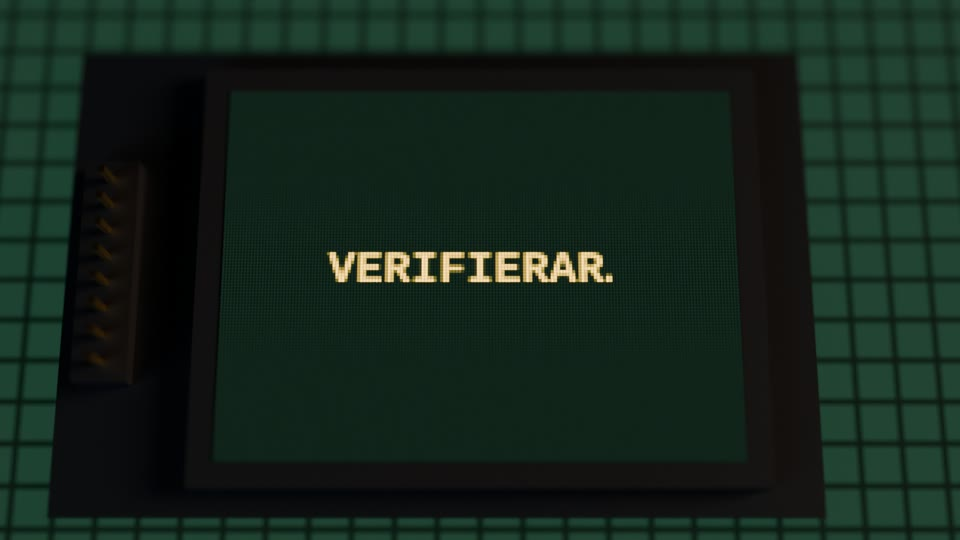
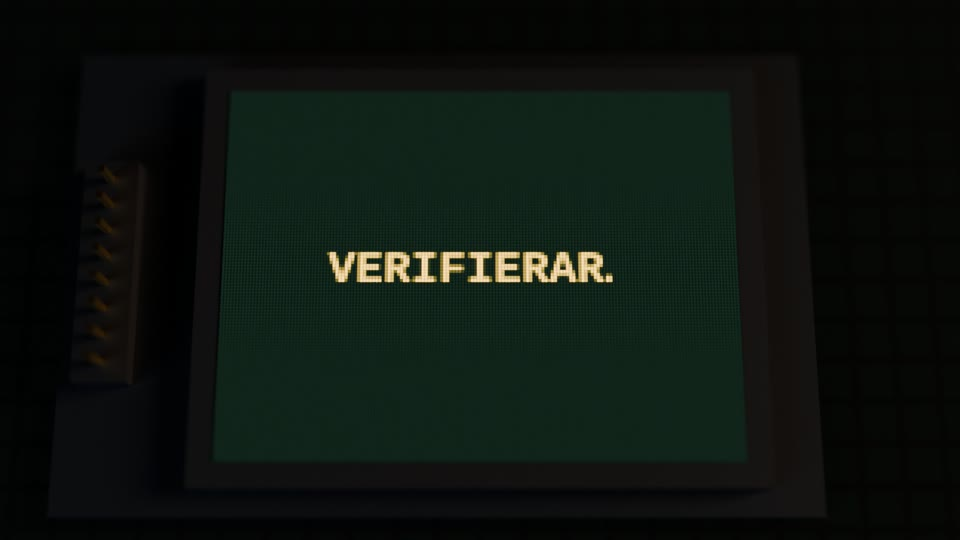
Film: glitch i LED-skärmen och golvet tonar ut till släckt
När kameran sjunker mot LED-skärmen tonar golvets pixlar ut tills
skärmen är det enda som lyser. Skärmen byter till VERIFIERAR med en
glitch i sju rutor, byggd ur skärmens egna bilder (verktyg/skarm_glitch.py),
med ett lågt digitalt knaster från Kenney.

diff --git a/trailer/storyboard/storyboard.html b/trailer/storyboard/storyboard.html
@@ -134,7 +134,7 @@ td:first-child { color: var(--fg); white-space: nowrap; font-family: var(--mono)
 <div class="wrap">
 
 <header class="top">
-  <div class="eyebrow">Storyboard v27 · En tagning ner i LED-skärmen</div>
+  <div class="eyebrow">Storyboard v28 · Glitchen och det släckta golvet</div>
   <h1>Projekt <span>Lennart</span></h1>
   <p class="lead">En helt orimlig mängd teknik, redovisad med fullt allvar, för att en ekorre ska få äta sin nöt i fred.</p>
   <div class="facts">
@@ -387,8 +387,8 @@ const ACTS = [
   ['0.1','0:00','5 s','Skärmen','o1','cg','Börja lugnt och seriöst. Väcka en fråga innan något har förklarats.','En liten skärm i en vit ram på röd träpanel: VÄNTAR PÅ BESÖKARE…','85 mm. Börjar snett från sidan, lätt lutad, och sveper i en båge runt fasaden medan den rätar upp sig.','Varmt släpljus från höger, svag kall fyllning.','Kameran rör sig, skärmen står still.','Samma båge fortsätter uppåt längs fasaden tills gluggen ligger där skärmen låg.','"Okej, så det här är ett helt vanligt autonomt säkerhetssystem,"','Svagt elektriskt brum. Dämpat fågelkvitter.','3D från GLB + skarm-vantar.png'],
   ['0.2','0:05','2,6 s','Gluggen och linsen','o2','cg','Systemets öga.','Den runda gluggen i gaveln, med kameramodulen där inne.','Kameran åker rakt in mot linsen tills det mörka glaset fyller bilden.','En liten kall reflex i glaset.','Inåkning som accelererar.','Klipp i mörkret till mekaniken. 0.3 börjar med doseringshjulets cirkel stor mitt i bild, där gluggen var.','"med artspecifik åtkomstkontroll,"','Ett lågt klick, som en slutare.','3D från GLB'],
   ['0.3','0:08','2,6 s','Nötens väg','o3','cg','Visa mekaniken som ett urverk, utan att visa huset.','Mekaniken i full färg: magasinet med nötter, hjulet, rännan, luckan och skålen. Resten av huset är mörkt glas där bara kanterna skymtar, och huset står på samma släckta LED-golv som i 0.4. Luckan fälls upp, hjulet vrider fram en hasselnöt och den rullar ner i skålen.','Låst vid hjulet: kameran rullar med doseringshjulet, så att hjulet och nöten står still medan magasinet och glashuset snurrar runt dem. När nöten släpper rätar bilden upp sig och följer nöten ner i skålen.','Varm nyckel på mekaniken. Glaset och bakgrunden i samma gröna som skärmen och golvet.','Luckan öppnas först, sedan vrids hjulet 130° och nöten rullar.','Osynligt klipp: kameran tiltar ner mot golvet tills bara pixlarna syns och börjar stiga. 0.4 tar vid i exakt samma läge, så att det känns som en enda kameraåkning.','"motoriserad precisionsdosering"','Servosurr. Nöten som rullar och landar.','3D från GLB. Ny version, v6 (variant H, låst vid hjulet).'],
-  ['0.4','0:10','4,3 s','Fyrtioåtta delar','o4','cg','Storleken på vansinnet, utan att avslöja formen.','Alla fyrtioåtta delar ligger platt i ett rutnät, sju gånger sju, en sak per ruta. I mittenrutan ligger LED-skärmen. Golvet är en enorm släckt LED-skärm med samma mörkgröna pixlar som skärmen i huset. Husets stomme ligger på rygg som en del bland de andra. Man ser mängden men kan inte pussla ihop huset.','Tar vid exakt där 0.3 slutade, tätt över golvets pixlar i hörnet intill mittenrutan, stiger rakt upp och fortsätter vrida sig tills hela rutnätet syns med LED-skärmen i mitten.','Varmt sidoljus, kall fyllning. Golvets pixlar glöder svagt. När skärmen vaknar tänds golvets pixlar runt den i ett mjukt grönt sken.','En enda jämn åkning. Delarna ligger still.','Inget klipp: kameran sjunker mot LED-skärmen och bromsar in strax ovanför den, där 0.5 tar vid i samma tagning.','"och fyrtioåtta väldigt noggrant tillverkade komponenter. Inget konstigt."','En låg ton växer.','3D från GLB + delar.json. Ny version, v7 (variant D).'],
-  ['0.5','0:15','3 s','Verifierar','o5','cg','Pausen.','LED-skärmen mitt i rutnätet, snett ovanifrån. Texten byts från VÄNTAR PÅ BESÖKARE… till VERIFIERAR… Huset syns inte.','Svävar lutad över skärmen och driver långsamt närmare.','Golvets pixlar glöder svagt runt skärmen. Skärmen är det ljusaste i bilden.','Nästan stilla.','Kameran åker in i texten tills skärmens pixlar fyller bilden, och skärmen släcks. Titeln tänds i samma pixelrutnät.','Tystnad, två sekunder.','Tre korta pip. Tvärt tyst.','3D: samma tagning som 0.4, LED-skärmen ur elektronik.blend + skarm-verifierar.png. Ny version, v5.'],
+  ['0.4','0:10','4,3 s','Fyrtioåtta delar','o4','cg','Storleken på vansinnet, utan att avslöja formen.','Alla fyrtioåtta delar ligger platt i ett rutnät, sju gånger sju, en sak per ruta. I mittenrutan ligger LED-skärmen. Golvet är en enorm släckt LED-skärm med samma mörkgröna pixlar som skärmen i huset. Husets stomme ligger på rygg som en del bland de andra. Man ser mängden men kan inte pussla ihop huset.','Tar vid exakt där 0.3 slutade, tätt över golvets pixlar i hörnet intill mittenrutan, stiger rakt upp och fortsätter vrida sig tills hela rutnätet syns med LED-skärmen i mitten.','Varmt sidoljus, kall fyllning. Golvets pixlar glöder svagt. När skärmen vaknar tänds golvets pixlar runt den i ett mjukt grönt sken. När kameran sjunker tonar golvets pixlar ut tills golvet är nästan släckt, så att skärmen är det enda som lyser.','En enda jämn åkning. Delarna ligger still.','Inget klipp: kameran sjunker mot LED-skärmen och bromsar in strax ovanför den, där 0.5 tar vid i samma tagning.','"och fyrtioåtta väldigt noggrant tillverkade komponenter. Inget konstigt."','En låg ton växer.','3D från GLB + delar.json. Ny version, v7 (variant D).'],
+  ['0.5','0:15','3 s','Verifierar','o5','cg','Pausen.','LED-skärmen mitt i rutnätet, snett ovanifrån. Skärmen glitchar, pixelrader rycker i sidled och färgerna glider isär, och VÄNTAR PÅ BESÖKARE… byts till VERIFIERAR… Huset syns inte.','Svävar lutad över skärmen och driver långsamt närmare.','Golvet är nästan släckt, rutnätet anas bara svagt. Skärmen är det enda som lyser.','Nästan stilla.','Kameran åker in i texten tills skärmens pixlar fyller bilden, och skärmen släcks. Titeln tänds i samma pixelrutnät.','Tystnad, två sekunder.','Ett lågt digitalt knaster när skärmen glitchar. Tre korta pip. Tvärt tyst.','3D: samma tagning som 0.4, LED-skärmen ur elektronik.blend + skarm-verifierar.png. Ny version, v5.'],
   ['0.6','0:18','2,8 s','Titel','','title','Leverera skämtet och namnet.','Svart. PROJEKT LENNART i skärmens typsnitt, med ett ekollon i pixlar till vänster.','Stilla.','—','Bokstäverna tänds en i taget.','Rakt klipp på musikens slag till balkongen i juli.','"Det vaktar nötter."','Tystnad under repliken.','Grafik'],
  ]],
  ['1 · Lennart', '0:20–0:42', 'Klippt av ditt filmmaterial, kortas till fyra klipp', [
@@ -432,7 +432,7 @@ const ACTS = [
 ];
 // nr -> kort notering om vilken version filmen är
 const FILM = {
- "0.1": "Ny version, v5: skärmen har synliga pixlar.", "0.2": "Ur öppning v2, godkänd bild. Din provinspelning som röst.", "0.3": "Ny version, v6: låst vid hjulet, grön färgvärld, landar på golvet i ett osynligt klipp till 0.4.", "0.4": "Ny version, v10: rutnätet är sju gånger sju med LED-skärmen i mitten. Börjar i golvets pixlar där 0.3 slutar, stiger, skärmen vaknar och kameran sjunker mot den. Går utan klipp över i 0.5.", "0.5": "Ny version, v6: samma tagning som 0.4. Kameran svävar över LED-skärmen, VERIFIERAR med punkter på pipen, inåkning i pixlarna till titeln.", "0.6": "Ny version: titeln med ekollonet, nu 2,8 s. Musiken börjar 1 s senare så att den ligger kvar mot resten.",
+ "0.1": "Ny version, v5: skärmen har synliga pixlar.", "0.2": "Ur öppning v2, godkänd bild. Din provinspelning som röst.", "0.3": "Ny version, v6: låst vid hjulet, grön färgvärld, landar på golvet i ett osynligt klipp till 0.4.", "0.4": "Ny version, v10: rutnätet är sju gånger sju med LED-skärmen i mitten. Börjar i golvets pixlar där 0.3 slutar, stiger, skärmen vaknar och kameran sjunker mot den. Går utan klipp över i 0.5.", "0.5": "Ny version, v7: samma tagning som 0.4. Golvet tonar ut till släckt, kameran svävar över LED-skärmen som glitchar över till VERIFIERAR, punkter på pipen, inåkning i pixlarna till titeln.", "0.6": "Ny version: titeln med ekollonet, nu 2,8 s. Musiken börjar 1 s senare så att den ligger kvar mot resten.",
  "1.1": "Ur del 1 v1, klippt efter din inspelning.", "1.2": "Ny presentation: korten byggs med film/verktyg/tre_rutor.py. Samma klipp och tider som förut, nu med ett mjukt klick per kort.", "1.3": "Ur del 1 v3. Namnskylten kommer tidigare och ligger kvar in i nästa klipp.", "1.4": "Ur del 1. Nytt slut: Lennart öppnar tassarna och släpper nöten (genererat med Higgsfield), kameran följer den ner till 2.1.",
  "2.1": "Ny version, v8: nöten från 1.4 faller ner och landar på fatet.", "2.2": "Ur v3, oförändrad.", "2.3": "Ur v3, oförändrad.", "2.4": "Ur v3, oförändrad.", "2.5": "Ny version, v5: nej-signalen slår ner i fatet, som snurrar ut med ett porslinsklirr.", "2.6": "Ny version, v6: nötterna vilar, kameran lyfter i slutet.",
  "6.1": "Ny version, v2: byggklippen i hörnen, i takt med musiken (platshållare).", "6.2": "Ny version, v2: byggklippen går när kameran åker nära (platshållare).", "6.3": "Första renderingen, v1. Rösten klipps inte längre i slutet av \"honom\".", "3.1": "Ny version, v6: ett litet munstycke under fönstret projicerar ritningen, med mjuk rörelse.", "3.2": "Ny version, v4: snabb panorering i slutet.",

diff --git a/trailer/film/oppning.py b/trailer/film/oppning.py
@@ -90,6 +90,9 @@ def screen_mat(f):
 SCR = {'vantar': screen_mat('skarm-vantar.png'), 'verifierar': screen_mat('skarm-verifierar.png')}
 # 0.5: punkterna i VERIFIERAR tands en i taget pa de tre pipen (1,70, 1,95 och 2,20 s in i klippet, se ljudmix.mjs). Den nytanda punkten blixtrar till i 0,12 s.
 for n_ in ('v0', 'v1', 'v1f', 'v2', 'v2f', 'v3', 'v3f'): SCR[n_] = screen_mat('skarm-verifierar-%s.png' % n_)
+for k_, f_ in ((1, 1.0), (2, 1.35), (3, 1.6), (4, 1.2), (5, 1.0)):   # glitchen nar LED-skarmen byter till VERIFIERAR (verktyg/skarm_glitch.py), nagra rutor lyser starkare
+    SCR['g%d' % k_] = screen_mat('skarm-glitch-%d.png' % k_); _p = SCR['g%d' % k_].node_tree.nodes['Principled BSDF']; _p.inputs['Emission Strength'].default_value *= f_
+GLITCH = {321: 'g1', 322: 'g2', 323: 'vantar', 324: 'g3', 325: 'av', 326: 'g4', 327: 'g5'}   # rutnummer -> skarmbild, 12,84-13,08 s
 SCR['av'] = screen_mat('skarm-av.png')     # slutet av 0.5: alla pixlar slocknar, titeln tar vid i samma rutnat
 PIPS = [T_E + d for d in (1.70, 1.95, 2.20)]
 def dots(t):
@@ -349,7 +352,9 @@ if VAR04 == 'D':
     mm = nt_.nodes.new('ShaderNodeMath'); mm.operation = 'MULTIPLY'; nt_.links.new(kant[0].outputs[0], mm.inputs[0]); nt_.links.new(kant[1].outputs[0], mm.inputs[1])
     ma = nt_.nodes.new('ShaderNodeMath'); ma.operation = 'MULTIPLY_ADD'; ma.inputs[1].default_value = 0.75; ma.inputs[2].default_value = 0.25; nt_.links.new(mm.outputs[0], ma.inputs[0])
     PIX_S = nt_.nodes.new('ShaderNodeMath'); PIX_S.operation = 'MULTIPLY'; PIX_S.inputs[1].default_value = 0.5; nt_.links.new(ma.outputs[0], PIX_S.inputs[0])
-    pp.inputs['Emission Color'].default_value = (0.024, 0.07, 0.043, 1)
+    pp.inputs['Emission Color'].default_value = (0.024, 0.07, 0.043, 1); GOLV_EM = pp.inputs['Emission Color']
+    GOLV_GRON, GOLV_SLUT = (0.024, 0.07, 0.043, 1), (0.0012, 0.0035, 0.0022, 1)   # nar kameran sjunker mot LED-skarmen tonar golvets pixlar ut till nastan slackt, sa att skarmen ar det enda som lyser (valt fore dampat midnattsblatt)
+    if os.environ.get('LENNART_GOLV') == 'bla': GOLV_SLUT = (0.009, 0.015, 0.046, 1)   # provet med dampat midnattsblatt
     # ett mjukt sken av tanda pixlar runt LED-skarmen i mitten: 1 + HALO_G * exp(-r^2 / s^2), r fran HALO_X/HALO_Y i golvets koordinater
     HALO_X = nt_.nodes.new('ShaderNodeValue'); HALO_Y = nt_.nodes.new('ShaderNodeValue'); HALO_G = nt_.nodes.new('ShaderNodeValue'); HALO_G.outputs[0].default_value = 0.0
     _dx = nt_.nodes.new('ShaderNodeMath'); _dx.operation = 'SUBTRACT'; nt_.links.new(sx_.outputs['X'], _dx.inputs[0]); nt_.links.new(HALO_X.outputs[0], _dx.inputs[1])
@@ -461,7 +466,7 @@ def cam03(t, tm, p):   # kameran i varianterna av 0.3
 
 def state(t):
     cam_d.type = 'PERSP'; cam_d.dof.use_dof = True; FLOOR.location = FLOOR_P4; WE0.color = WE0_C
-    if VAR04 == 'D': HALO_G.outputs[0].default_value = 0.0
+    if VAR04 == 'D': HALO_G.outputs[0].default_value = 0.0; GOLV_EM.default_value = GOLV_GRON
     for l, e_, p_ in zip(L['golv'], GOLV_E, GOLV_P): l.location = p_; l.data.energy = e_
     for l, e_ in zip(L['snitt'], SNITT_E): l.data.energy = e_
     for o in ELEK_ALL + NUMMER + VAROBJ: o.hide_render = not (T_D <= t < T_E4)   # elektroniken och numren finns bara i 0.4
@@ -513,8 +518,11 @@ def state(t):
                 _sk = bpy.data.objects[SKMOD]
                 for o in [_sk] + list(_sk.children_recursive): o.hide_render = False
                 SKARM_B.data.materials[0] = SCR['vantar'] if (u > 1.55 and not (1.6 < u < 1.66) and not (1.74 < u < 1.77)) else SCR['av']
-                if t >= 12.97: SKARM_B.data.materials[0] = SCR['av' if (t < 13.05 or t >= END - 0.06) else dots(t)]   # VERIFIERAR nar kameran kommit fram, punkterna pa pipen, slacks infor titeln
+                _n = round(t * FPS)   # rorelseoskarpans delrutor far samma bild som rutan
+                if _n in GLITCH: SKARM_B.data.materials[0] = SCR[GLITCH[_n]]   # skarmen glitchar over fran VANTAR till VERIFIERAR nar kameran kommit fram
+                elif _n > max(GLITCH): SKARM_B.data.materials[0] = SCR['av' if t >= END - 0.06 else dots(t)]   # VERIFIERAR, punkterna pa pipen, slacks infor titeln
                 _lc = FLOOR.matrix_world.inverted() @ SKARM_B.matrix_world.translation; HALO_X.outputs[0].default_value = _lc.x; HALO_Y.outputs[0].default_value = _lc.y
+                _b = sm(t, 11.6, 12.8); GOLV_EM.default_value = tuple(g_ + (b_ - g_) * _b for g_, b_ in zip(GOLV_GRON, GOLV_SLUT))
                 HALO_G.outputs[0].default_value = 5.0 * sm(u, 1.6, 2.3) * (1 - 0.75 * sm(t, 12.0, 13.0))    # golvets pixlar runt skarmen tands strax efter den och dampas nar kameran kommer ner, sa att skarmen ar det ljusaste
         if VAR04 in 'KBE':
             ext = sm(u, 0.0, 1.15); rise = sm(u, 0.55, 2.0); pan = sm(u, 0.6, 2.6)

diff --git a/trailer/film/verktyg/skarm_glitch.py b/trailer/film/verktyg/skarm_glitch.py
@@ -1,0 +1,37 @@
+# Projekt Lennart - glitchen nar LED-skarmen byter fran VANTAR PA BESOKARE till VERIFIERAR (0.5).
+# Bygger sex bilder ur skarmens egna bilder, sa att glitchen hamnar i skarmens pixelrutnat: pixelrader som forskjuts i sidled,
+# block med brusiga pixlar och farger som glider isar. Allt flyttas i hela skarmpixlar (bilderna har 2 x 2 bildpunkter per pixel).
+# Kor:  <blender-python> film/verktyg/skarm_glitch.py      (skriver skarm-glitch-1.png ... skarm-glitch-6.png i projektets rot)
+import subprocess, os, numpy as np
+ROOT = os.path.abspath(os.path.join(os.path.dirname(os.path.abspath(__file__)), '..', '..'))
+W, H = 336, 248
+def las(f):
+    r = subprocess.run(['ffmpeg', '-v', 'error', '-i', os.path.join(ROOT, f), '-f', 'rawvideo', '-pix_fmt', 'rgb24', '-'], capture_output=True, check=True).stdout
+    return np.frombuffer(r, np.uint8).reshape(H, W, 3).astype(np.int16)
+def skriv(a, f):
+    subprocess.run(['ffmpeg', '-v', 'error', '-y', '-f', 'rawvideo', '-pix_fmt', 'rgb24', '-s', f'{W}x{H}', '-i', '-', os.path.join(ROOT, f)], input=np.clip(a, 0, 255).astype(np.uint8).tobytes(), check=True)
+VA, VE = las('skarm-vantar.png'), las('skarm-verifierar-v0.png'); BG = VE[2, 2].copy()   # skarmens morka bakgrund
+rng = np.random.default_rng(7)
+def band(a, y0, y1, dx):    # pixelrader y0-y1 (skarmpixlar) flyttas dx skarmpixlar i sidled
+    a = a.copy(); s = a[2 * y0:2 * y1].copy(); a[2 * y0:2 * y1] = BG; dx *= 2
+    if dx > 0: a[2 * y0:2 * y1, dx:] = s[:, :-dx]
+    else: a[2 * y0:2 * y1, :dx] = s[:, -dx:]
+    return a
+def rgb(a, k):              # rott at hoger, blatt at vanster, k skarmpixlar
+    a = a.copy(); k *= 2; a[:, k:, 0] = a[:, :-k, 0].copy(); a[:, :-k, 2] = a[:, k:, 2].copy(); return a
+def brus(a, n):             # n block med slumpade pixlar i skarmens gronvita ton
+    a = a.copy()
+    for _ in range(n):
+        w, h = rng.integers(6, 30), rng.integers(1, 5); x, y = rng.integers(0, 168 - w), rng.integers(0, 124 - h)
+        v = rng.random((h, w)) ** 3; c = np.stack([60 + 150 * v, 120 + 135 * v, 90 + 120 * v], -1) * (rng.random((h, w, 1)) > 0.35)
+        a[2 * y:2 * (y + h), 2 * x:2 * (x + w)] = np.repeat(np.repeat(c, 2, 0), 2, 1)
+    return a
+g = {}
+g[1] = band(band(VA, 48, 52, 9), 64, 67, -6)                      # VANTAR PA rader 45-57, BESOKARE 62-75, VERIFIERAR 53-68
+g[2] = brus(rgb(band(band(band(VA, 44, 50, -14), 53, 58, 11), 66, 72, 22), 2), 4)
+g[3] = brus(rgb(np.concatenate([band(VA, 0, 60, 17)[:120], band(VE, 60, 124, -10)[120:]]), 3), 6)
+g[4] = rgb(band(VE, 55, 62, 7), 2)
+g[5] = band(VE, 60, 64, -4)
+g[6] = band(brus(VA, 2), 40, 44, -20)   # reserv: ett kort ryck i VANTAR, anvands inte just nu
+for k, a in g.items(): skriv(a, f'skarm-glitch-{k}.png')
+print('klar', len(g), 'bilder')

diff --git a/TOKENS.md b/TOKENS.md
@@ -19,7 +19,7 @@ Metoden anger hur siffran togs fram: *exakt* (avläst i verktyget) eller *uppska
 | 2026-11-15 (kväll, livebild) | Publik livebild på lennart.cam (bilder bara när någon tittar), adminvy bakom inloggning med inställningar och av-knapp, Pi-appen skickar 640 × 360 i 2 bilder/s. Testat lokalt och mot riktiga lennart.cam. | ca 5–10 miljoner in, ca 0,08 miljoner ut [osäkert] | Uppskattat: ca 40 modellanrop × 130 000–240 000 tokens kontext. Ut uppskattat ur mängden skriven kod och text. | 0 | Ingen lokal modell användes |
 | 2026-11-15 (kväll, admin) | Felsökning av inloggningen i adminvyn: tolerans för mellanslag och citattecken, fingeravtryck i loggen, test i riktig webbläsare, besökarens adress bakom Cloudflare | ca 3–6 miljoner in, ca 0,03 miljoner ut [osäkert] | Uppskattat: ca 20 modellanrop × 150 000–260 000 tokens kontext | 0 | Ingen lokal modell användes |
 | 2026-11-15 (kväll, rotation och servon) | Kamerans rotation och servostyrning i adminvyn: kommandon och inställningar via Pi:ns väntande anrop, egen drivrutin för PCA9685, kopplingsguide för servona, rättning av dolda bilder i stilmallen. Testat med låtsashårdvara och i Chromium. | ca 6–12 miljoner in, ca 0,1 miljoner ut [osäkert] | Uppskattat: ca 40 modellanrop × 160 000–280 000 tokens kontext. Ut uppskattat ur mängden skriven kod och text. | 0 | Ingen lokal modell användes |
-| 2026-11-14 – 2026-11-17 | Trailern, Claude Code i Claude-appen på Windows (lokal session): storyboard, alla 3D-scener i Blender, Marcus röst bearbetad och lagd mot klippen, musik och ljudeffekter, övergångar, flytt av filmprojektet till repot, övergången från Lennart till planen, vattenstämpeln, inköpen, servonas tajming, byggklippen i monteringen, munstycket i designen, delarna som byggsats i öppningen, ekollonet i titeln, nöten som faller från 1.4 till 2.1, rättelser, varianter av 0.3 och 0.4 och det osynliga klippet mellan dem, släppet i 1.4 genererat med Higgsfield, LED-skärmen i mitten av 0.4, korten i 1.2 och 0.4–0.5 i en tagning | ca 444,3 miljoner in, varav 440,4 miljoner cacheläsning och 3,9 miljoner cacheskrivning, och 1,64 miljoner ut | Exakt ur sessionsloggen fram till 2026-11-17 13.18 UTC: summan av `usage`-fälten för 1463 modellanrop (Claude Fable 5.2 och Claude Opus 5.5), räknat en gång per svar. Arbetet efter den tidpunkten ingår inte. | ej räknat | Whisper medium kördes lokalt för att skriva ut rösten (ca 2,5 minuter ljud). Whisper räknar inte tokens på samma sätt, och antalet loggades inte. |
+| 2026-11-14 – 2026-11-17 | Trailern, Claude Code i Claude-appen på Windows (lokal session): storyboard, alla 3D-scener i Blender, Marcus röst bearbetad och lagd mot klippen, musik och ljudeffekter, övergångar, flytt av filmprojektet till repot, övergången från Lennart till planen, vattenstämpeln, inköpen, servonas tajming, byggklippen i monteringen, munstycket i designen, delarna som byggsats i öppningen, ekollonet i titeln, nöten som faller från 1.4 till 2.1, rättelser, varianter av 0.3 och 0.4 och det osynliga klippet mellan dem, släppet i 1.4 genererat med Higgsfield, LED-skärmen i mitten av 0.4, korten i 1.2, 0.4–0.5 i en tagning, glitchen och det släckta golvet | ca 457,4 miljoner in, varav 453,4 miljoner cacheläsning och 3,9 miljoner cacheskrivning, och 1,67 miljoner ut | Exakt ur sessionsloggen fram till 2026-11-17 14.19 UTC: summan av `usage`-fälten för 1506 modellanrop (Claude Fable 5.2 och Claude Opus 5.5), räknat en gång per svar. Arbetet efter den tidpunkten ingår inte. | ej räknat | Whisper medium kördes lokalt för att skriva ut rösten (ca 2,5 minuter ljud). Whisper räknar inte tokens på samma sätt, och antalet loggades inte. |
 | 2026-11-15 | Kort Claude Code-session i samma mapp: försök att snygga till en timelapse av utskriften med Higgsfield [verifiera vad som blev gjort] | ca 7,0 miljoner in, varav 6,9 miljoner cacheläsning, och 0,03 miljoner ut | Exakt ur sessionsloggen: summan av `usage`-fälten för 50 modellanrop (Claude Opus 5.5) | 0 | Ingen lokal modell användes |
 
 ## Utanför tokenräkningen

diff --git a/trailer/film/LAGE.md b/trailer/film/LAGE.md
@@ -72,6 +72,7 @@ Scener som väntar på riktigt material står i listan `VANTAR` i `storyboard/st
 - **LED-skärmen i mitten av 0.4 (17/11):** i variant D ligger husets 48 delar och LED-skärmen (`E_skarmmodul` ur `elektronik.blend`) i ett rutnät 7 × 7, med skärmen i mittenrutan. Övrig elektronik syns inte. 0.4 börjar därför i hörnet snett nedanför mittenrutan, ett helt antal golvpixlar från mitten, så att golvet i 0.3 ser likadant ut. Skärmen vaknar när kameran är som högst (`skarm-vantar.png`), och golvets pixlar runt den tänds i ett mjukt sken (`HALO_G` i golvmaterialet). Kameran sjunker med logaritmisk höjd, i jämn upplevd fart, och landar på skärmens mörka pixlar under texten, i samma läge som 0.5 börjar.
 - **Korten i 1.2 (17/11):** `verktyg/tre_rutor.py` bygger 1.2 av de tre mobilklippen som kort med rundade hörn, skugga och tunn ljus kant. Bakgrunden är det oskarpa mittenklippet i filmens blågröna ton. Klippen och tiderna är desamma som förut (0 / 1,52 / 2,56 s), och ljudmixen har ett mjukt klick per kort. Kör: `<blender-python> film/verktyg/tre_rutor.py storyboard/clips/1_2.mp4 <gamla 1_2.mp4 för ljudet>`.
 - **0.4 och 0.5 i en tagning (17/11):** med LED-skärmen (`D_SKARM` i `oppning.py`) fortsätter 0.4 till slutet av öppningen (`T_E4 = END`). Kameran sjunker från 2,9 m med logaritmisk höjd och bromsar in 14 cm ovanför skärmen, lutad 18°. Där svävar den medan texten byts från VÄNTAR PÅ BESÖKARE… till VERIFIERAR… (13,05 s). Punkterna tänds på de tre pipen. Från 14,45 s åker kameran rakt in till 0,058 m med 85 mm, ca 84 pixlar över bildbredden som titelns rutnät, och skärmen släcks 0,06 s före titeln. LED-skärmen har samma mått som skärmen i huset (49 × 36 mm, 168 × 124 pixlar), så skärmbilderna och inåkningen är desamma som förut. Golvskenet dämpas när kameran kommer ner. Klippet 0.5 är rutorna 315–379 med ljudet från det tidigare 0.5.
+- **Glitchen och det släckta golvet (17/11):** när kameran sjunker mot LED-skärmen (11,6–12,8 s) tonar golvets pixlar ut till nästan släckt (`GOLV_SLUT`), så att skärmen är det enda som lyser. Ett prov med dämpat midnattsblått valdes bort; `LENNART_GOLV=bla` ger det. Skärmen byter till VERIFIERAR med en glitch i rutorna 321–327 (12,84–13,08 s): pixelrader som rycker i sidled, brusiga block, färger som glider isär och en släckt ruta. Glitchbilderna `skarm-glitch-1.png` … `-5.png` byggs ur skärmens egna bilder med `verktyg/skarm_glitch.py`. Allt flyttas i hela skärmpixlar, så glitchen ligger i skärmens rutnät. Ljudet är Kenneys `glitch_002` och `glitch_001`, lågt i mixen.
 - **Varianter av 0.3 (prov 17/11):** `LENNART_03` i `oppning.py` väljer K (nuvarande genomskärning med glashuset, i filmen), S (snittet: rakt från sidan utan perspektiv, bara mekaniken, snittskraffering på snittytorna), M (makro med fartramp: kort skärpedjup, slowmotion när nöten släpper ur hjulet) eller H (kameran rullar med doseringshjulet). Varianterna renderas med rörelseoskärpa. I M ändras mekanikens tajming, så ljudeffekterna behöver flyttas om den väljs. Marcus valde H (17/11), som nu är förvalt och ligger i filmen. I H är glaset och bakgrunden gröna som skärmen. Det osynliga klippet (`OVERG`) gäller bara när H och D används tillsammans. Första rutan i 0.3 renderas utan rörelseoskärpa, eftersom 0.2 annars blandades in.
 - **Varianter av 0.4 (prov 17/11):** `LENNART_04` i `oppning.py` väljer K (byggsatsen, i filmen), A (en lång linje som slutar genom stommen och ner i ramen), B (byggsatsen, slutar på LED-skärmen som tänds), C (ovanifrån), D (golvet är en släckt LED-skärm, kameran dyker in i pixlarna) eller E (en grön skanning). Marcus valde D (17/11), som nu är förvalt och ligger i filmen. Byggsatsen i grupper (K) och elektroniken används bara av varianterna K, B och E; D visar husets 48 delar utan elektroniken.
 - **Nötterna:** platserna räknas fram mot modellens riktiga form (`verktyg/notmagasin.py`, `verktyg/notfat.py`).
